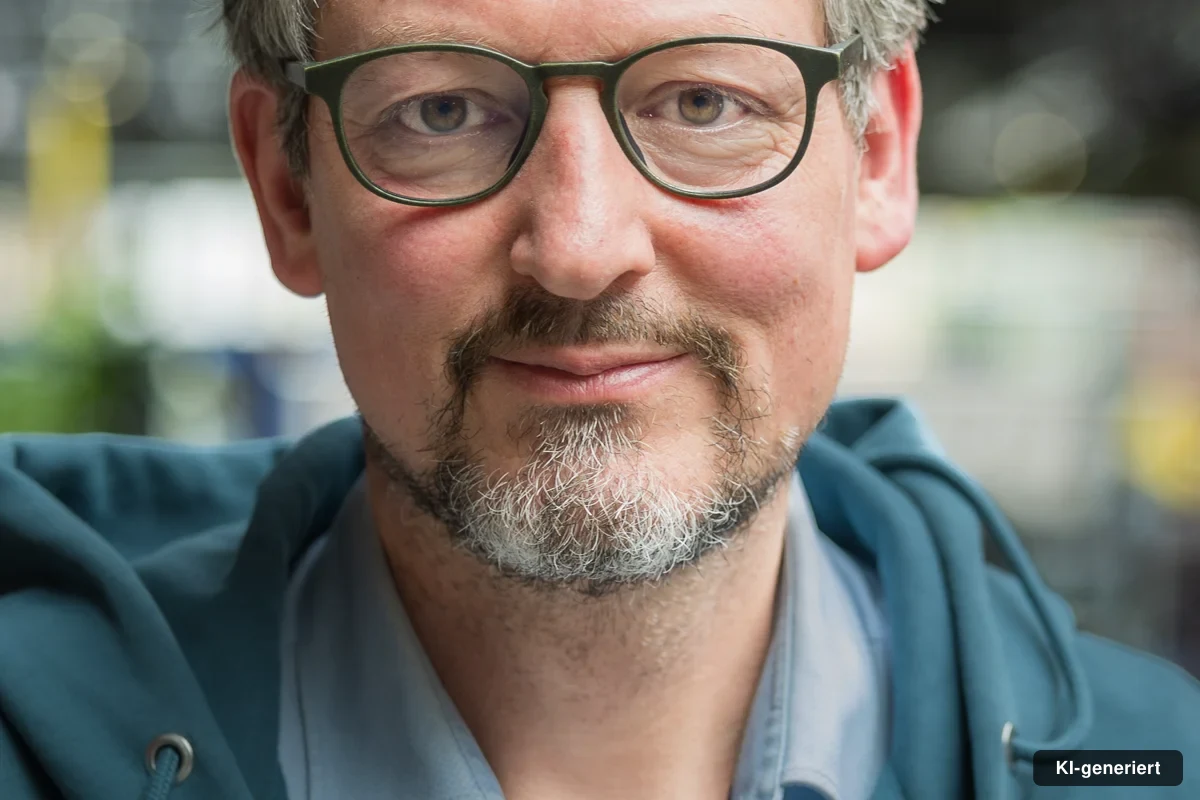
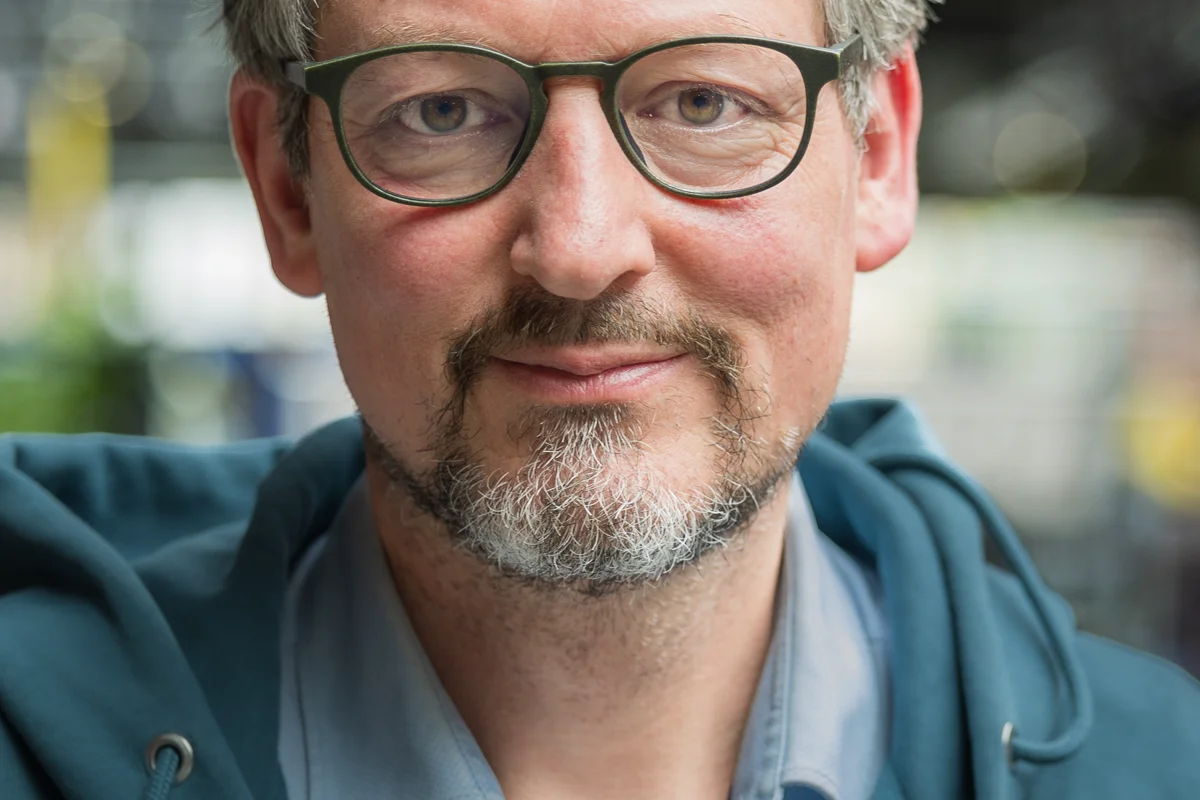
fix(ki-vo): echte Pressefotos faelschlich als KI markiert - korrigiert
Fehler: Die Regel "isNews:false -> KI" war zu grob. Die promi-*-Artikel
sind keine News, nutzen aber lizenzierte Pressefotos (ZDF, RTL, SRF,
SAT.1, Wikimedia CC, Verlagsfotos). 58 Bilder trugen faelschlich Badge
und trainedAlgorithmicMedia.

Ein KI-Label auf einem lizenzierten Pressefoto ist selbst irrefuehrend
(§ 5 UWG) und entwertet die Credit-Angabe des Rechteinhabers.

Korrektur:
- Bilder aus der Git-History vor dem Batch wiederhergestellt (Badge weg)
- nur echten Credit als XMP gesetzt, kein trainedAlgorithmicMedia
- istEchtesFoto() ergaenzt: aiGenerated beruecksichtigt jetzt den Credit,
  nicht nur isNews

Changed region(s): [[0.8633, 0.9375, 0.9867, 1.0]]

diff --git a/src/components/content/ArticleView.tsx b/src/components/content/ArticleView.tsx
@@ -50,6 +50,16 @@ function extractH2s(content: any): { label: string; id: string }[] {
   return items;
 }
 
+/**
+ * Echte Pressefotos erkennt man am Credit mit Quellenangabe. Sie duerfen NIE als
+ * KI gekennzeichnet werden — das waere selbst irrefuehrend (§ 5 UWG) und entwertet
+ * die Lizenzangabe des Rechteinhabers.
+ */
+function istEchtesFoto(credit?: string | null): boolean {
+  if (!credit) return false;
+  return /Foto:|Wikimedia|CC[- ]BY|GFDL|dpa|Getty|imago|ZDF|RTL|SRF|ARD|MDR|NDR|SWR|SAT\.1|ProSieben|VOX|Joyn|Verlag|Pressefoto|Autorenfoto/i.test(credit);
+}
+
 export async function buildArticleMetadata(slug: string) {
   const article = await reader.collections.articles.read(slug);
   if (!article) return {};
@@ -209,7 +219,7 @@ export default async function ArticleView({ slug }: { slug: string }) {
         date={article.publishedAt || undefined}
         /* News nutzen echte Pressebilder, alles andere ist KI-generiert
            (Art. 50 Abs. 4 KI-VO). */
-        aiGenerated={!article.isNews}
+        aiGenerated={!article.isNews && !istEchtesFoto(article.featuredImageCredit)}
       />
 
       <StickyTOC items={extractH2s(article.content)} />
